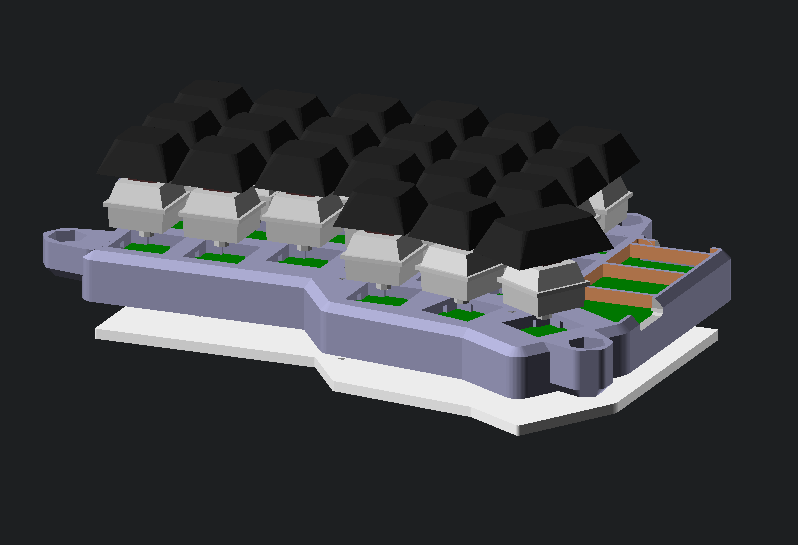
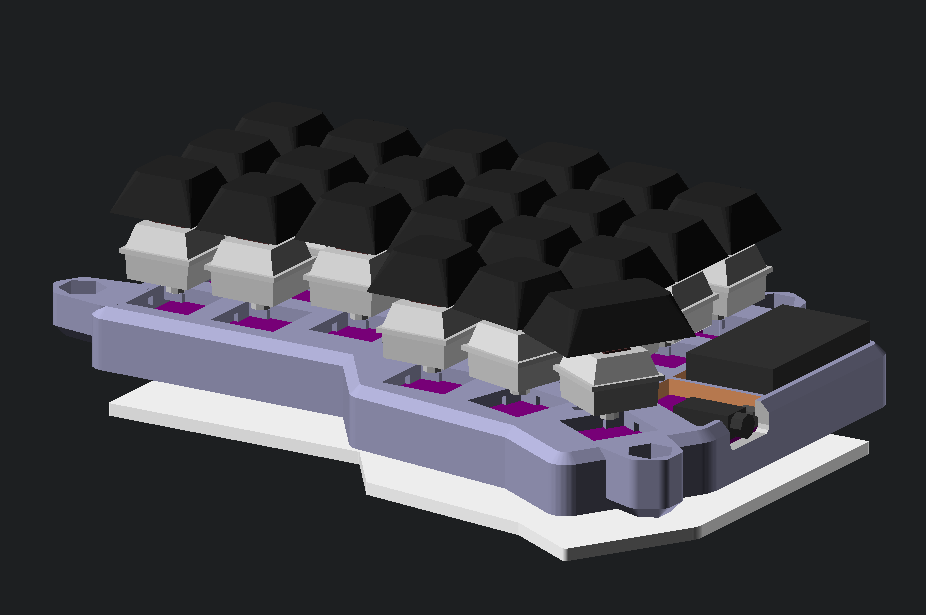
Readme updates

diff --git a/crkbd/README.md b/crkbd/README.md
@@ -1,12 +1,17 @@
-## CRKBD keyboard Case From Scratch
+## CRKBD keyboard cases from scratch
 
-This is a case for the
-[Corne](https://github.com/foostan/crkbd) keyboard. It is a top plate
-with tenting supports attached. The bottom plate could be 3D printed in
-transparent plastic (or should be compatible with laser cut acrylic
-bottom plate).
+In this folder are a couple of different cases for the
+[Corne](https://github.com/foostan/crkbd) keyboard.
 
-![corne-exploded](../images/corne-exploded.png)
+
+### Default case (AKA first version)
+
+This has a top plate with tenting supports attached. The bottom plate
+could be 3D printed in transparent plastic so that underglow shows
+through (it should also be compatible with the laser cut acrylic bottom
+plate).
+
+<img alt="crkbd exploded" src="../images/corne-exploded.png" width="500">
 
 The top part has a couple of struts across where the OLED screen goes
 that are purely to assist with keeping the edge attached during
@@ -14,11 +19,51 @@ printing, and these should be cut out after printing. The outermost
 tenting mounts are raised compared to the inner ones, this is to allow
 the outer sides to sit closer to the desk.
 
-![corne-complete](../images/corne-complete.jpg)
+<img alt="corne complete" src="../images/corne-complete.jpg" width="500">
 
 I've also designed a simple carrier that each half of the keyboard slots
 into, and which has a wee compartment into which you can put the TRRS
 cable and tenting legs during transport.
 
-![corne-carrier](../images/corne-carrier.jpg)
+<img alt="corne carrier" src="../images/corne-carrier.jpg" width="500">
+
+
+### "Alternate" case
+
+This version of the case has a simple printed top plate (essentially as
+thick as possible for strength - you may need to clip diode legs etc),
+and the bottom half contains the tenting etc. This version is "high
+profile" where the sides come up to the bottom of the keycaps:
+
+<img alt="crkbd alternate" src="../images/corne-alt.png" width="500">
+
+The tenting positions are differently arranged, but you can use the
+definitions from the default case if you prefer those.
+
+If you want this case to be compatible with RGB underglow lighting, it's
+best to print the first few mm in transparent filament before swapping
+to the color you want for the bulk of the case.
+
+Mine is using a top mounted
+[nRFMicro](https://github.com/joric/nrfmicro) for bluetooth, and has a
+separate LiPo battery bay.
+
+Here are the default and alternate cases:
+
+<img alt="crkbd default and alt" src="../images/corne-default-and-alt.jpg" width="500">
+
+### "Minimal" case
+
+This version of the case has the same simple top plate as the alternate
+case, and the bottom is pretty much a wedge shape so we have the minimal
+footprint. You can configure whether you want the MCU and/or the reset
+switch mounted under the PCB (this allows the OLED to sit close to the
+PCB).
+
+<img alt="crkbd minimal" src="../images/corne-minimal.png" width="500">
+
+Mine is using a bottom mounted
+[nRFMicro](https://github.com/joric/nrfmicro) which also straddles a
+small LiPo, making it a nice compact bluetooth keyboard.
+
 

diff --git a/README.md b/README.md
@@ -8,10 +8,10 @@ generated in OpenSCAD from scratch.
 
 When cloning, you need to make sure you get the submodules, e.g.:
 
-    git clone --recurse-submodules https://github.com/Lenbok/scad-redox-case.git
+    git clone --recurse-submodules https://github.com/Lenbok/scad-keyboard-cases.git
 
 
-## Modified Version Of The Original Case
+## Modified Version Of The Redox Case
 
 Have a look in [redox-rev0-mod](redox-rev0-mod) for my modification of
 the original handwire Redox case.
@@ -46,7 +46,22 @@ OpenSCAD that includes this along with `keyboard_case.scad`, e.g.:
 Then to make a case, you mostly just need to define a polygon describing the
 outer boundary of your desired case, a set of points for where to put
 case screw holes, and optional positions for tenting supports, and call
-the `top_case` and/or `bottom_case` modules. See the other cases here
-for examples (the Redox case is most developed):
+the `top_case` and/or `bottom_case` modules. 
 
-![redox-exploded](images/redox-exploded.png)
+See some of the cases here for examples:
+
+Redox:
+
+<img alt="redox exploded" src="images/redox-exploded.png" width="500">
+
+CRKBD (main shell is top half):
+
+<img alt="crkbd" src="images/corne-exploded.png" width="500">
+
+CRKBD "alternate" (hi-profile, main shell is lower half):
+
+<img alt="crkbd alternate" src="images/corne-alt.png" width="500">
+
+CRKBD "minimal" (here using bottom mount mcu and reset for low profile):
+
+<img alt="crkbd minimal" src="images/corne-minimal.png" width="500">
